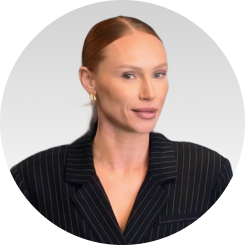
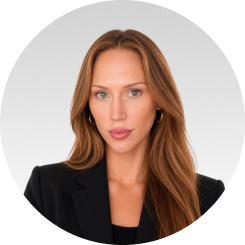
Add : New Team

diff --git a/components/sections/team/teamSection.tsx b/components/sections/team/teamSection.tsx
@@ -38,6 +38,11 @@ const teamData = [
     role: "Architect",
     image: "/team6.png",
   },
+  {
+    name: "Ali",
+    role: "Junior Architect",
+    image: "/team7.png",
+  },
 ]
 
 const TeamSection = () => {